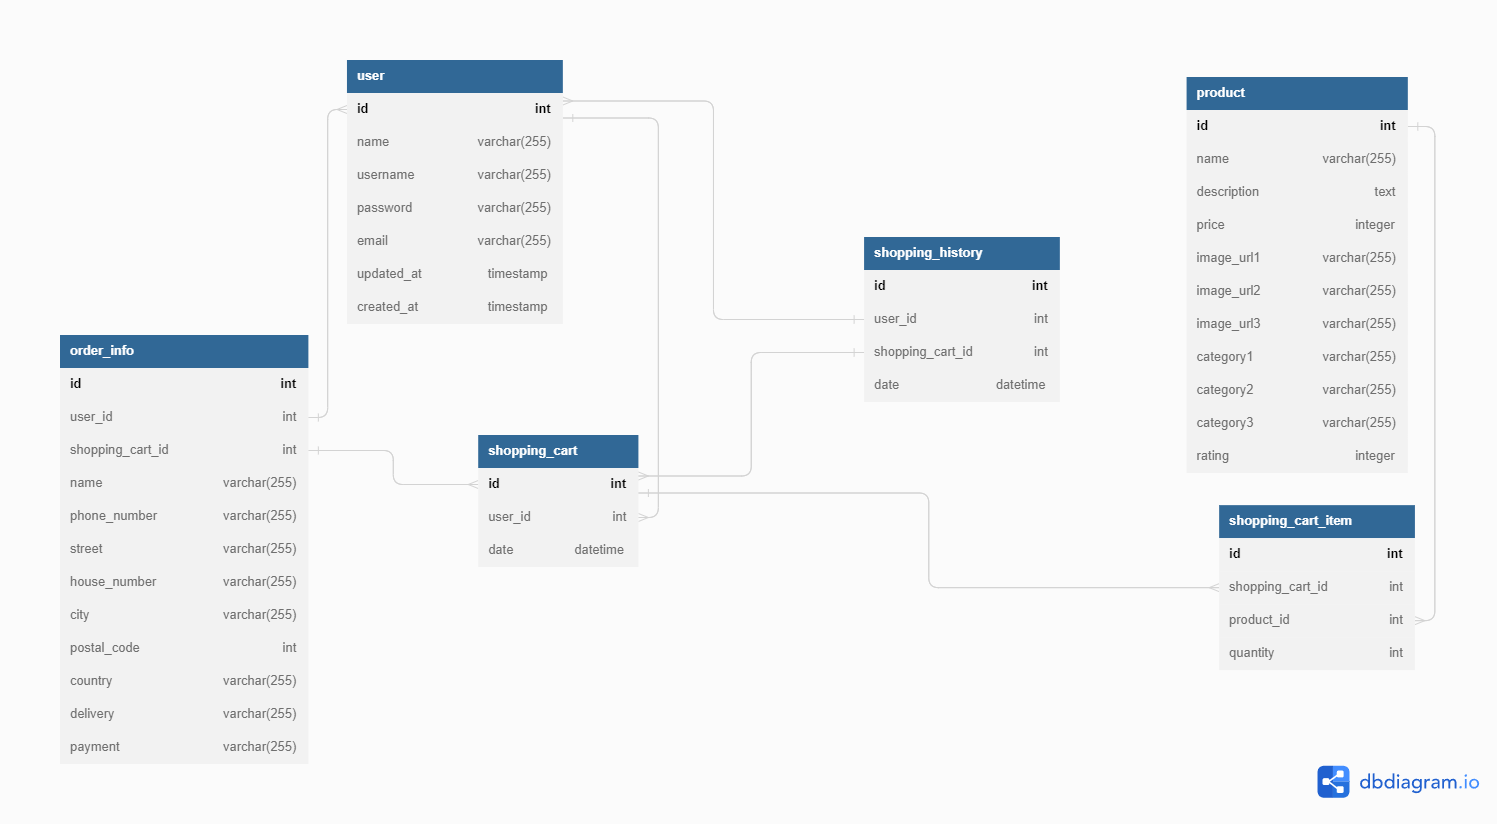
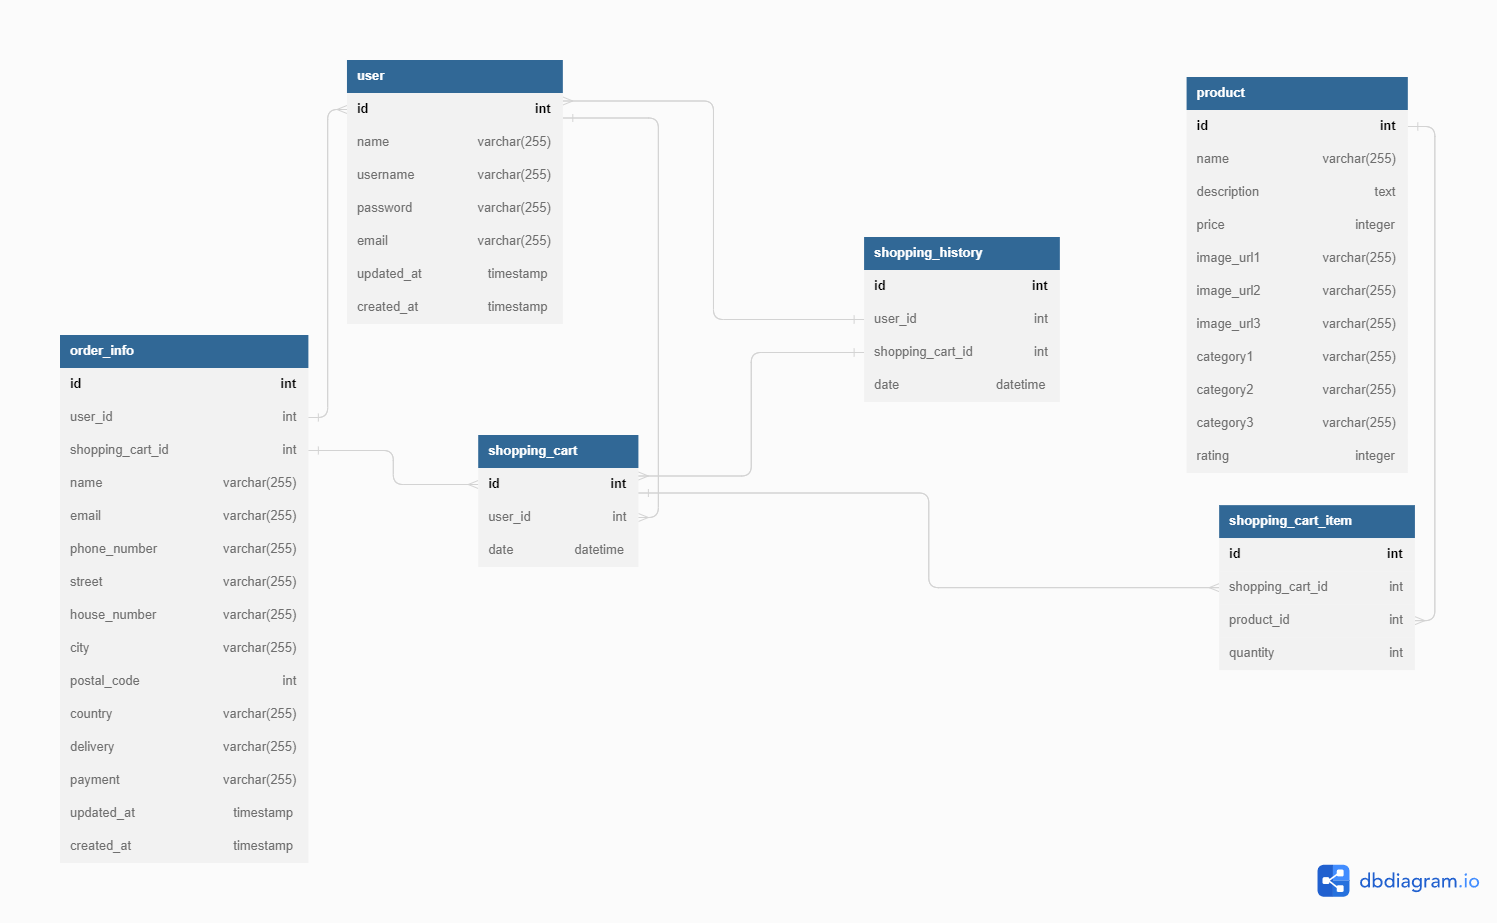
kosik-zhrnutie - ulozenie informacii do databazy, oprava databazy

diff --git a/wtech_app/resources/views/kosik_zhrnutie.blade.php b/wtech_app/resources/views/kosik_zhrnutie.blade.php
@@ -100,10 +100,11 @@
 
     <section class="container mt-2">
         <div class="row">
+            <form class="col-10 offset-1 register_form d-inline-block" action="{{ route('validate_info') }}" method="POST">
+                @csrf
             <!-- sekcia pre vyplnenie udajov pre objednavku-->
             <div class="col-10 col-sm-6">
-                <form class="col-10 offset-1 register_form d-inline-block" action="{{ route('validate_info') }}" method="POST">
-                    @csrf
+
                     <h5>Osobné údaje</h5>
                     <div class="div mb-2">
                         <div class="row">
@@ -111,7 +112,7 @@
                                 <p class="float-start">Meno a Priezvisko</p>
                             </div>
                             <div class="col-8">
-                                <input type="text" name="name" class="form-control float-end" placeholder="" value="{{ auth()->check() ? auth()->user()->name : '' }}" required>
+                                <input type="text" name="name" class="form-control float-end" placeholder="" value="{{auth()->check() ? auth()->user()->name : ' ' }}" required>
                             </div>
                         </div>
                     </div>
@@ -121,7 +122,10 @@
                                 <p class="float-start">Email</p>
                             </div>
                             <div class="col-8">
-                                <input type="text" name="email" class="form-control float-end" placeholder="" value="{{ auth()->check() ? auth()->user()->email : '' }}" required>
+                                <input type="text" name="email" class="form-control float-end" placeholder="" value="{{auth()->check() ? auth()->user()->email : ' ' }}" required>
+                                @if($errors->has('email'))
+                                    <span class="text-danger">{{ $errors->first('email') }}</span>
+                                @endif
                             </div>
                         </div>
                     </div>
@@ -187,7 +191,6 @@
                             </div>
                         </div>
                     </div>
-                </form>
             </div>
             <!-- pddelovacia ciara-->
             <div class="col-1 hr_vertical d-none d-sm-block"></div>
@@ -239,15 +242,14 @@
 
                 <!-- tlacidla pre dalsie kroky-->
                 <div class="col-12 text-center">
-                    <button class="btn-dark rounded-3 mt-5" type="submit">
-                        <a class="btn text-light " href="/templates/main_page.html">Odoslať objednávku s povinnosťou platby</a>
-                    </button>
+                    <button  class="btn-dark btn text-light rounded-3 mt-5" type="submit">Odoslať objednávku s povinnosťou platby</button>
                 </div>
                 <div class="col-1 offset-11 mt-5">
                     <a href="kosik_doprava_platba" class="btn btn-primary float-sm-start">Späť</a>
                 </div>
 
             </div>
+            </form>
         </div>
     </section>
 

diff --git a/wtech_app/app/Http/Controllers/ShoppingCartInfoDeliveryPayment.php b/wtech_app/app/Http/Controllers/ShoppingCartInfoDeliveryPayment.php
@@ -6,14 +6,14 @@ use App\Models\Order_info;
 use Illuminate\Foundation\Auth\Access\AuthorizesRequests;
 use Illuminate\Foundation\Validation\ValidatesRequests;
 use Illuminate\Routing\Controller as BaseController;
+use Illuminate\Support\Facades\Auth;
+use Illuminate\Http\Request;
 
 class ShoppingCartInfoDeliveryPayment extends Controller
 {
     function validate_info(Request $request)
     {
         $request->validate([
-            'name'         =>   'required',
-            'email'        =>   'required|email|unique:users',
             'phone_number' =>   'required',
             'street'       =>   'required',
             'house_number' =>   'required',
@@ -24,9 +24,23 @@ class ShoppingCartInfoDeliveryPayment extends Controller
 
         $data = $request->all();
 
+        if(Auth::check()){
+            $user = Auth::user();
+            $name = $user->name;
+            $email = $user->email;
+        }else{
+            $request->validate([
+                'name'         =>   'required',
+                'email'        =>   'required|email|unique:users'
+            ]);
+
+            $name=  $data['name'];
+            $email = $data['email'];
+        }
+
         Order_info::create([
-            'name'         =>  $data['name'],
-            'email'        =>  $data['email'],
+            'name'         =>  $name,
+            'email'        =>  $email,
             'phone_number' =>  $data['phone_number'],
             'street'       =>  $data['street'],
             'house_number' =>  $data['house_number'],

diff --git a/wtech_app/database/migrations/2023_04_15_174909_create_order_info_table.php b/wtech_app/database/migrations/2023_04_15_174909_create_order_info_table.php
@@ -1,0 +1,35 @@
+<?php
+
+use Illuminate\Database\Migrations\Migration;
+use Illuminate\Database\Schema\Blueprint;
+use Illuminate\Support\Facades\Schema;
+
+return new class extends Migration
+{
+    /**
+     * Run the migrations.
+     */
+    public function up(): void
+    {
+        Schema::create('order_infos', function (Blueprint $table) {
+            $table->id();
+            $table->string('name');
+            $table->string('email');
+            $table->string('phone_number');
+            $table->string('street');
+            $table->string('house_number');
+            $table->string('city');
+            $table->string('postal_code');
+            $table->string('country');
+            $table->timestamps();
+        });
+    }
+
+    /**
+     * Reverse the migrations.
+     */
+    public function down(): void
+    {
+        Schema::dropIfExists('order_infos');
+    }
+};

diff --git a/wtech_app/routes/web.php b/wtech_app/routes/web.php
@@ -58,10 +58,6 @@ Route::post('price_up', [ProductController::class, 'price_up'])->name('price_up'
 Route::post('price_down', [ProductController::class, 'price_down'])->name('price_down');
 
 Route::get('/kosik_prehlad', [BasketOverviewController::class, 'index'])->name('index');
-Route::post('/kosik_doprava_platba', [BasketOverviewController::class, 'payement'])->name('payement');
-Route::post('/kosik_zhrnutie', [BasketOverviewController::class, 'sumarise'])->name('sumarise');
-
-
 
 Route::get('/kosik_zhrnutie', function () {
     return view('kosik_zhrnutie');

diff --git a/wtech_app/app/Models/Order_info.php b/wtech_app/app/Models/Order_info.php
@@ -4,11 +4,12 @@ namespace App\Models;
 
 // use Illuminate\Contracts\Auth\MustVerifyEmail;
 use Illuminate\Database\Eloquent\Factories\HasFactory;
+use Illuminate\Database\Eloquent\Model;
 use Illuminate\Foundation\Auth\User as Authenticatable;
 use Illuminate\Notifications\Notifiable;
 use Laravel\Sanctum\HasApiTokens;
 
-class Order_info extends Authenticatable
+class Order_info extends Model
 {
     use HasApiTokens, HasFactory, Notifiable;
 
